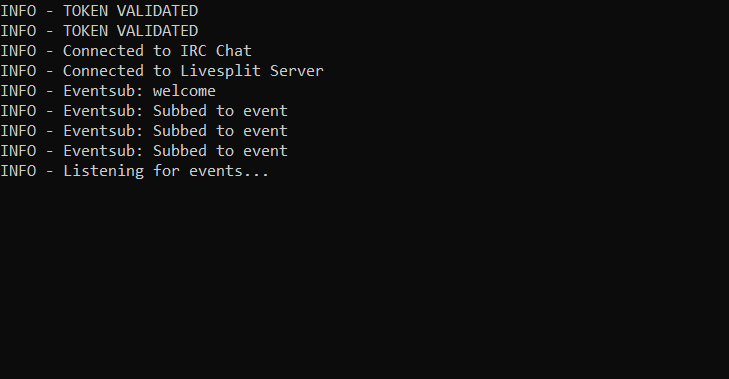
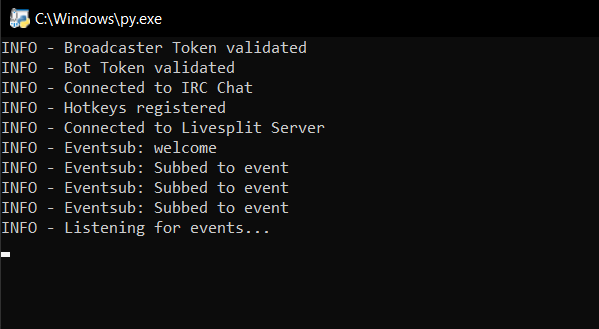
updated readme and small changes to logging

Changed region(s): [[0.0, 0.0, 0.5409, 0.7295], [0.0, 0.7599, 0.0301, 0.7903]]

diff --git a/authorize.py b/authorize.py
@@ -17,7 +17,7 @@ CLIENT_SECRET = CFG['twitch']['auth']['client_secret']
 REDIRECT_URI = CFG['twitch']['auth']['redirect_uri']
 BOT_SCOPE = CFG['twitch']['scopes']['bot_scope']
 BROAD_SCOPE = CFG['twitch']['scopes']['broad_scope']
-CHANNEL = CFG['twitch']['info']['channel']
+CHANNEL = CFG['twitch']['info']['channel'].lower()
 
 TOKEN_URL = 'https://id.twitch.tv/oauth2/token'
 AUTHORIZE_URL = 'https://id.twitch.tv/oauth2/authorize'

diff --git a/src/token.py b/src/token.py
@@ -76,7 +76,7 @@ class Token():
 
         match response.status_code:
             case 200:
-                LOG.logger.info(f"{self.token_type} TOKEN VALIDATED")
+                LOG.logger.info(f"{self.token_type.value.capitalize()} Token validated")
             case 401: # access token expired
                 LOG.logger.info(f"{self.token_type} Token expired, refreshing...")
 

diff --git a/electrobot.py b/electrobot.py
@@ -19,7 +19,7 @@ from src import Token, TokenType
 from src import logger as LOG
 
 
-CHANNEL = f"#{CFG['twitch']['info']['channel']}"
+CHANNEL = f"#{CFG['twitch']['info']['channel'].lower()}"
 BOT_ACCOUNT = CFG['twitch']['info']['bot_account'] # can be anything?
 CLIENT_ID = CFG['twitch']['auth']['client_id']
 CHANNEL_ID = CFG['twitch']['info']['channel_id']

diff --git a/README.md b/README.md
@@ -1,18 +1,18 @@
 # electrobot
 
-Twitch bot that manages predictions via chat commands and starts predictions automatically based on Livesplit. Now with hotkey support.
+Twitch bot that manages predictions via chat commands and starts pre-made predictions automatically based on Livesplit. Now with hotkey support.
 
 # Prerequisites
 
 - [Python](https://www.python.org/downloads/) (Add to PATH)
 - [Livesplit](https://livesplit.org/downloads/) and [Livesplit Server](https://github.com/LiveSplit/LiveSplit.Server) (Optional)
 - A Twitch account (Affiliate) (with 2FA enabled)
-- A Twitch bot account
+- A Twitch bot account (Optional)
 
 # Installation
 
 1. Download the [latest release](https://github.com/electrorayer/electrobot/releases) and extract.
-2. Run the following command to install necessary dependencies:
+2. In the extracted folder, run the following command to install necessary dependencies:
 
     ```
     pip install -r requirements.txt
@@ -40,12 +40,28 @@ Once you see your application click on manage, then
 Open the `config` folder.
 
 1. Copy `config-example.toml` and rename the copy to `config.toml`.
-2. Open `config.toml` and change the value in `CLIENT_ID` to the client ID you noted down earlier.
-3. Do the same thing with `CLIENT_SECRET` and `REDIRECT_URI`.
-4. If you didn't use port 8777 you **MUST** also change the `PORT` field under `[socket]` as by default it is set to 8777.
-5. Under `[irc]` change the value of `CHANNEL` to your Twitch channel. **NOTE**: this must be in lowercase.
-6. Finally change the value of `BOT_ACCOUNT` to the Twitch channel of your bot.
+2. Open `config.toml` and change the value in `client_id` to the client ID you noted down earlier.
+3. Do the same thing with `client_secret` and `redirect_uri`.
+4. If you didn't use port 8777 you **MUST** also change the `port` field under `[socket]` as by default it is set to 8777.
+5. Under `[twitch.info]` change the value of `channel` to your Twitch channel.
+6. Finally change the value of `bot_account` to the Twitch channel of your bot. You can also use your streaming account for this.
 7. Save
+
+### Hotkeys
+
+Under `[hotkeys]` in `config.toml` you can bind actions to hotkeys and choose to enable/disable hotkeys to easily perform actions.
+
+Possible field names:
+- lock
+- cancel
+- resolve_<1-10> **by default only the first four outcomes are made into a hotkey.
+
+[List of available keys](https://github.com/btsdev/global_hotkeys#list-of-the-available-keys)
+
+### Additional configuration
+
+- Under `[messages]` you can edit the messages of the bot on different events.
+- Under `[permissions]` you can allow or disallow mods and VIPs to use commands.
 
 ## Managing predictions
 
@@ -67,15 +83,6 @@ The yellow stars indicate which category is active and which splits have predict
 
 *If you add splits often and you want to add a prediction for those splits you can rename any split in the `Splits` list to that split and make the prediction that way. The order or missing splits is irrelevant. The split list is more of a convenience feature. And if you want a prediction for every split well :(
 
-## Hotkeys
-
-When you first successfully run `electrobot.py` a bindings file will be created in `config/bindings.json` with some default hotkeys to perform below actions.
-
-- Close a prediction with CTRL + 5
-- Cancel a prediction with CTRL + 6
-- Select an outcome <1-10> with CTRL + <1-4> *by default only the first four outcomes are made into a hotkey. You can go all the way up to 10 by just copy pasting the objects in the bindings file.
-
-- You can change the actual keys you press by editing the `hotkey` field. [List of available keys](https://github.com/btsdev/global_hotkeys#list-of-the-available-keys)
 
 # Usage
 
@@ -103,7 +110,7 @@ Run `electrobot.py`
 
 If all was configured correctly you should see this:
 
-- <img src="assets/example.png" alt="predictions manager" title="predictions manager" width=519 height=270 >
+<img src="assets/example.png" alt="predictions manager" title="predictions manager" width=519 height=270>
 
 **Chat commands:**
 
